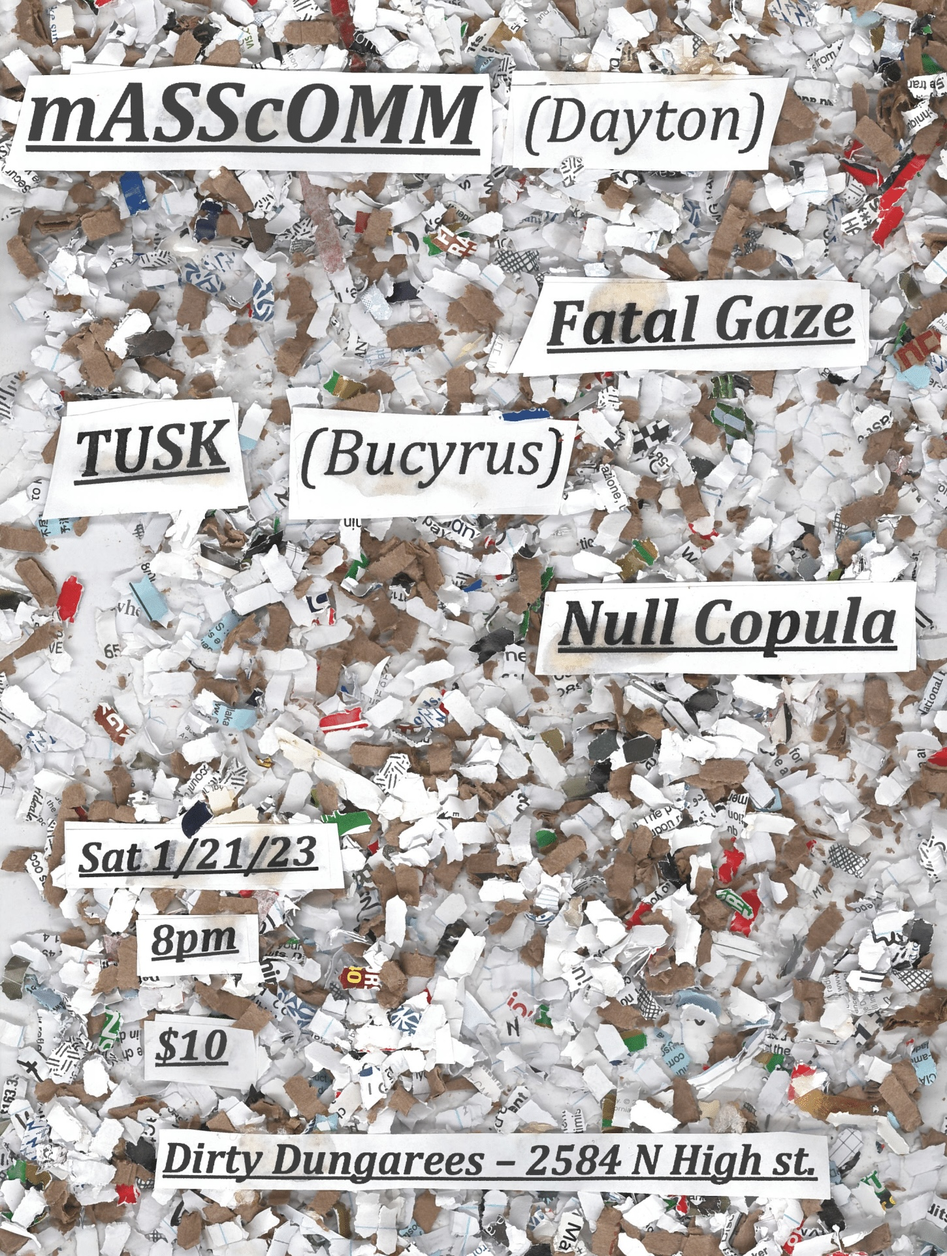
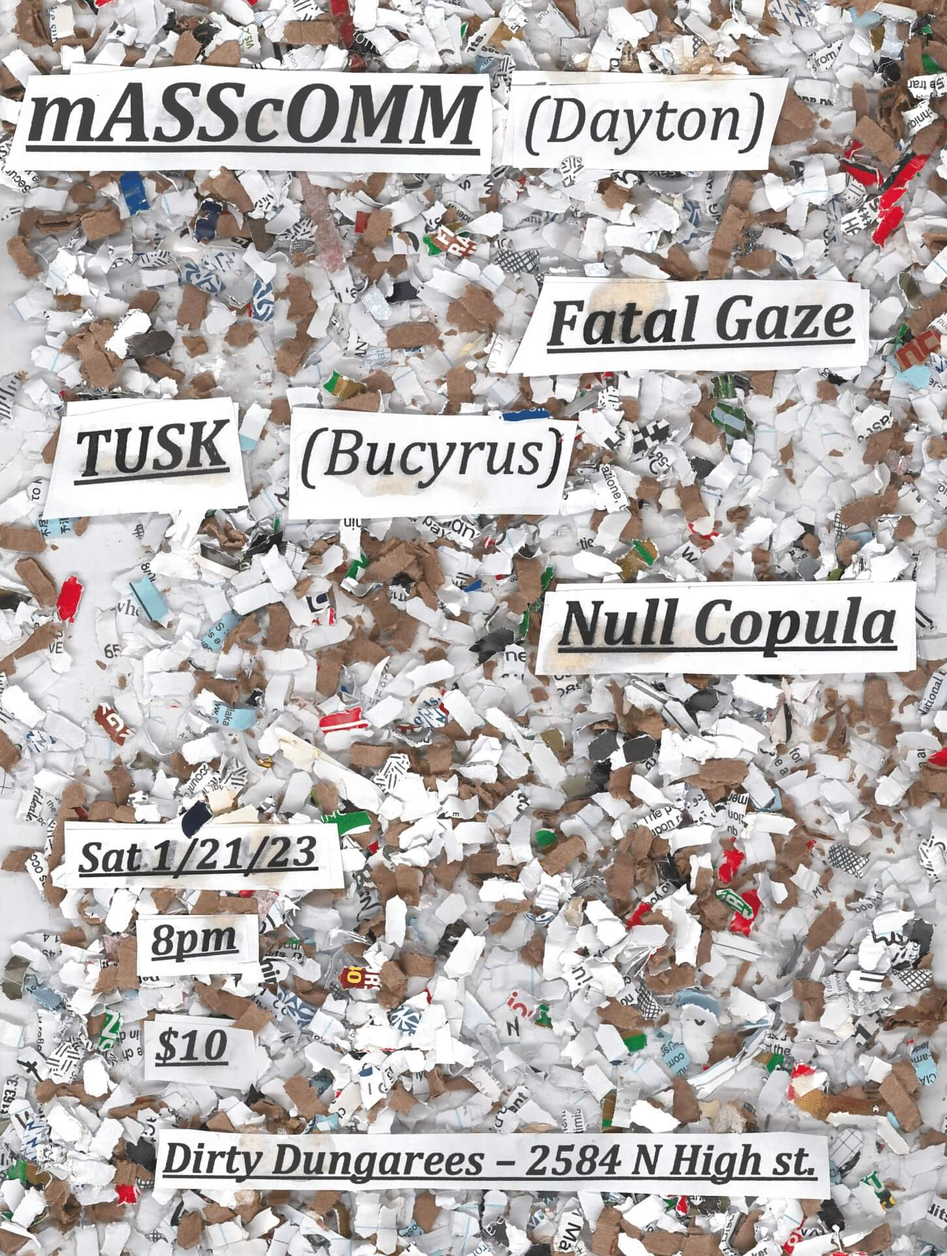
resized flier images with TinyJPG

diff --git a/content/performances.html b/content/performances.html
@@ -65,9 +65,9 @@
             <li><img src="../img/fliers/2023-11-16.jpg" loading="lazy"></li>
             <li><img src="../img/fliers/2023-11-15.jpg" loading="lazy"></li>
             <li><img src="../img/fliers/2023-11-acia-tour.jpg" loading="lazy"></li>
-            <li><img src="../img/fliers/2023-09-07-Arritola.jpg" loading="lazy"></li>
-            <li><img src="../img/fliers/2023-09-01-Galaxxu.jpg" loading="lazy"></li>
-            <li><img src="../img/fliers/2023-07-11.jpg" loading="lazy"></li>
+            <li><img src="../img/fliers/2023-09-07-Arritola.jpeg" loading="lazy"></li>
+            <li><img src="../img/fliers/2023-09-01-Galaxxu.jpeg" loading="lazy"></li>
+            <li><img src="../img/fliers/2023-07-11.jpeg" loading="lazy"></li>
             <li><img src="../img/fliers/2023-05-06.png" loading="lazy"></li>
             <li><img src="../img/fliers/2023-04-01.png" loading="lazy"></li>
             <li><img src="../img/fliers/2023-01-23.jpg" loading="lazy"></li>

diff --git a/home.html b/home.html
@@ -57,7 +57,7 @@
     <div class="home-image-container">
         <img src="img/home-noise.jpeg"
             alt="Abhilasha Chebolu performing a Harsh Noise set at Skeleton Dust Records as Null Copula" loading="lazy">
-        <img src="img/home-guitar2.jpeg"
+        <img src="img/home-guitar.jpeg"
             alt="Abhilasha Chebolu playing guitar with free jazz ensemble Turtle Boat at Dick's Den in Columbus, OH"
             loading="lazy">
     </div>

diff --git a/styles.css b/styles.css
@@ -4,7 +4,7 @@ html {
 }
 
 body {
-  background-image: url(img/shreds.jpg);
+  background-image: url(img/shreds.jpeg);
   background-size: 100% auto; 
   background-repeat: repeat;
 }
